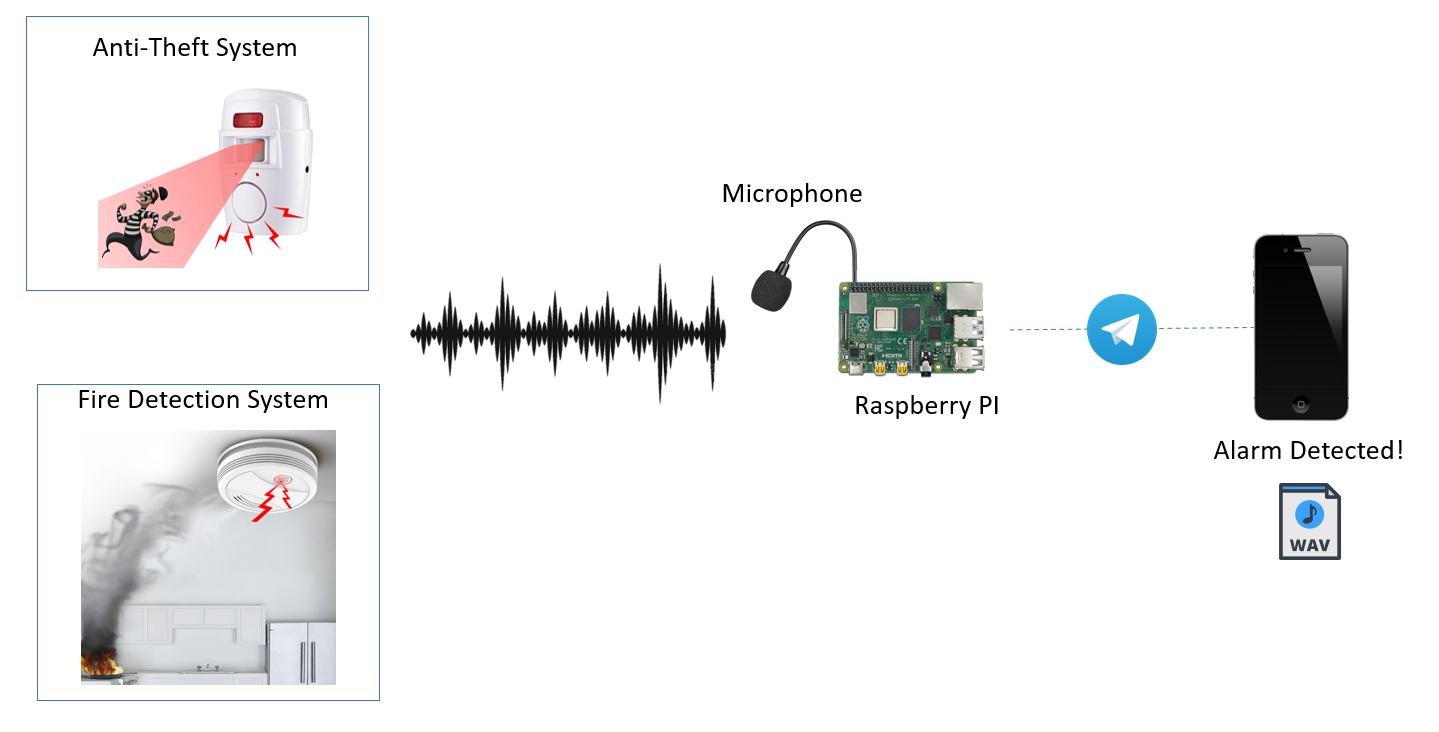
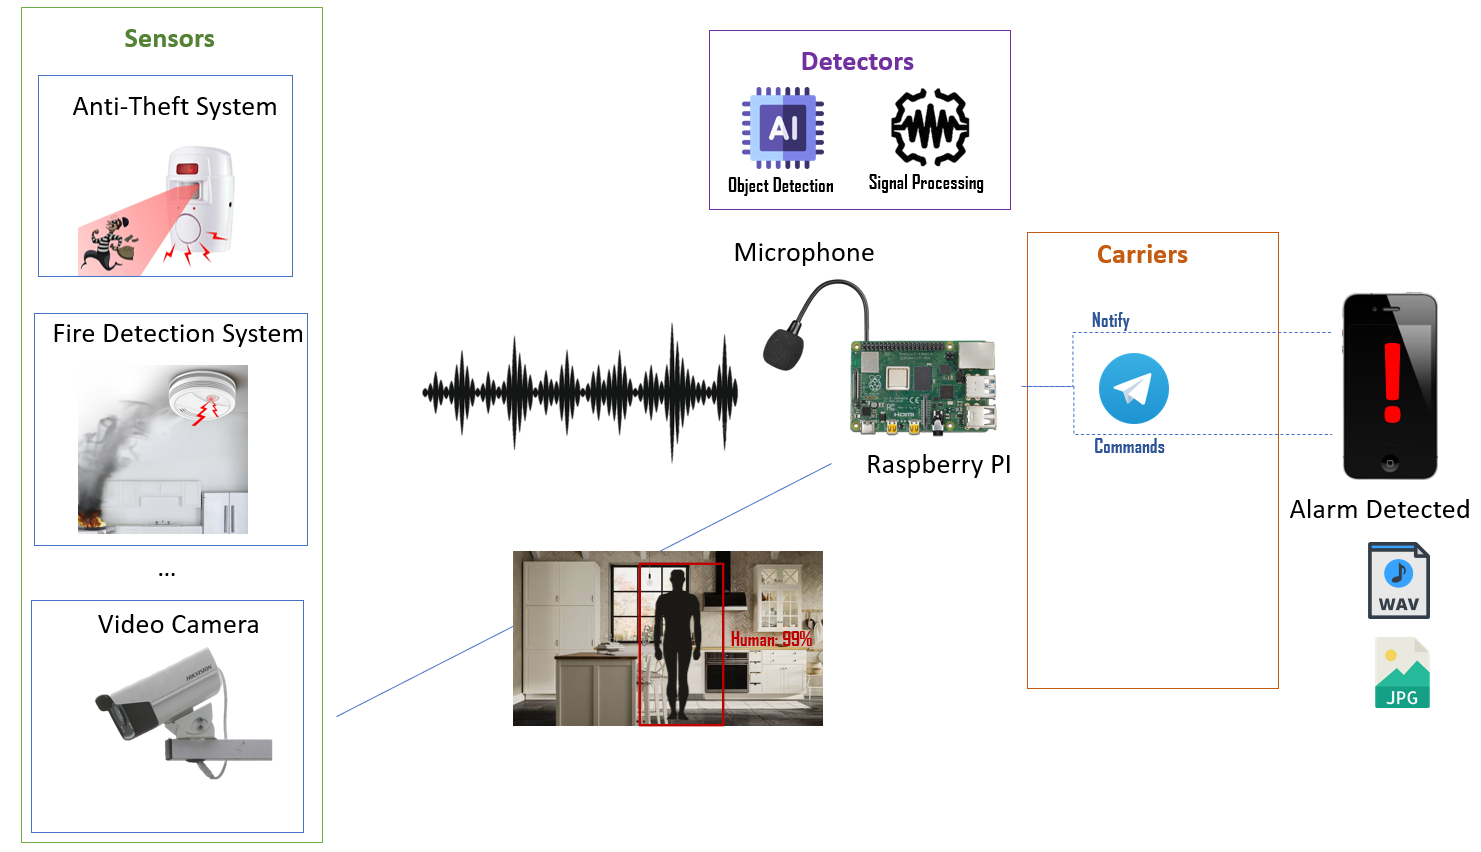
Major update

diff --git a/main.py b/main.py
@@ -1,17 +1,54 @@
-#import notifiers.telegram_notifier
 import time
 import logging
 from sensors.sensor_microphone import SensorMicrophone
-from notifiers.telegram_notifier import NotifierTelegram
+from sensors.sensor_camera import SensorCamera
+from carriers.telegram_carrier import CarrierTelegram
 from detectors.audiostats.audiostats import AudioStats
+from detectors.objdetection.objdetection import ObjectDetection
 import sys
 import config
 import os
 
-def doActions(notifiers):
+def doActions(carriers):
     """ Perform actions request by user on communication channels """
-    for n in notifiers:
-        n.doAction()
+    for c in carriers:
+        c.doAction()
+
+def alarmDetection(mic, carriers, logger):
+    # Record audio sample from microphone
+    mic = SensorMicrophone(logger)
+    mic.record(config.recording_seconds)
+    # Analyze audio for alarm sound
+    audiostats = AudioStats()
+    # Keep only high frequencies (alarm sound)
+    orig = mic.getEvidenceFile()
+    wavfile = audiostats.highPassFilter(orig)
+    dblevel = audiostats.getProperty(wavfile, "RMS lev dB")
+    if os.path.exists(wavfile):
+        os.remove(wavfile)
+    print(f"RMS dB level: {dblevel}")
+    if (dblevel > config.db_threshold):
+        logger.info(f"Alarm detected with db level {dblevel}")
+        # Notify and (eventually) attach evidences
+        for carrier in carriers:
+            if not carrier.notify(f"Alarm detected with db level {dblevel}", mic.getEvidenceFile()):
+                logger.error("Cannot send notification")
+            else:
+                logger.info(f"Notification sent using {carrier.name}")
+
+def humanDetection(camera, objdet, carriers, logger):
+    camera.takephoto()
+    for e in objdet.detect(camera.getEvidenceFile()):
+        conf = e["confidence"]
+        if (e["label"] == "person") and (conf > config.object_detection_threshold):
+            logger.info(f"Human detected with confidence {conf}")
+            # Notify and (eventually) attach evidences
+            for carrier in carriers:
+                if not carrier.notify(f"Human detected with confidence {conf}", camera.getEvidenceFile()):
+                    logger.error("Cannot send notification")
+                else:
+                    logger.info(f"Notification sent using {carrier.name}")
+
 
 def main():
     # Init logger
@@ -24,41 +61,26 @@ def main():
     logger = logging.getLogger("pyalarmguard")
     logger.addHandler(handler)
 
-    tg = NotifierTelegram(logger)
-    notifiers = [tg]
+    tg = CarrierTelegram(logger)
+    carriers = [tg]
 
     logger.info("Starting pyalarmguard")
 
+    cam = SensorCamera(logger)
     mic = SensorMicrophone(logger)
-    mic.record(config.recording_seconds)
+
+    objdet = ObjectDetection(logger)
     
     while(True):
         try:
             # Check if user requested some action to do
-            doActions(notifiers)
+            doActions(carriers)
+            if config.human_detection:
+                humanDetection(cam, objdet, carriers, logger)
             if config.alarm_detection:
-                # Record audio sample from microphone
-                mic = SensorMicrophone(logger)
-                mic.record(3)
-                # Analyze audio for alarm sound
-                audiostats = AudioStats()
-                # Keep only high frequencies (alarm sound)
-                orig = mic.getEvidenceFile()
-                wavfile = audiostats.highPassFilter(orig)
-                dblevel = audiostats.getProperty(wavfile, "RMS lev dB")
-                if os.path.exists(wavfile):
-                    os.remove(wavfile)
-                print(f"RMS dB level: {dblevel}")
-                if (dblevel > config.db_threshold):
-                    logger.info(f"Alarm detected with db level {dblevel}")
-                    # Notify and (eventually) attach evidences
-                    if not tg.notify(f"Alarm detected with db level {dblevel}", mic.getEvidenceFile()):
-                        logger.error("Cannot send notification")
-                    else:
-                        logger.info("Notification sent using telegram")
+                alarmDetection(mic, carriers, logger)
         except Exception as ex:
             logger.info(f"Exception occurred: {ex}")
-        time.sleep(1)
         
 
 

diff --git a/carriers/telegram_carrier.py b/carriers/telegram_carrier.py
@@ -4,42 +4,49 @@ import json
 import sys
 import os
 from sensors.sensor_microphone import SensorMicrophone
+from sensors.sensor_camera import SensorCamera
 import config
 
-class NotifierTelegram():
+class CarrierTelegram():
 
     def __init__(self, logger):
+        self.name = "telegram"
         self.logger = logger
         self.max_attempts = 5
         self.attempt_delay_sec = 10
         # Read configuration to retrieve API Key and chat id
-        with open(os.getcwd()+'/config.json') as config:
-            file_contents = config.read()
-        jconfig = json.loads(file_contents)
-        if ("telegram" not in jconfig["notifiers"]):
-            print("Telegram configuration not found in config.json, missing mandatory apiKey and chatId params")
+        if (config.tg_api_key == ""):
+            print("Telegram configuration not found in config, missing mandatory api key and chat id params")
             sys.exit(1)
-        jconfig = jconfig["notifiers"]["telegram"]
-        api_key=jconfig["apiKey"]
-        self.apiurl = f'https://api.telegram.org/bot{api_key}'
-        self.chat_id = jconfig["chatId"]
+
+        self.apiurl = f'https://api.telegram.org/bot{config.tg_api_key}'
+        self.chat_id = config.tg_chat_id
         self.last_msg_id = -1
         super().__init__()
     
     def notify(self, message, attachment=None):
         """
         Send notification, return true if succeeded.
-        Note: attachments are considered audio file at the moment!!
+        Note: attachments type is detected by extension
         """
         attempts = self.max_attempts
         while(attempts > 0):
             try:
-                response = requests.post(f"{self.apiurl}/sendMessage", json={'chat_id': self.chat_id, 'text': message})
+                if (message != None):
+                    response = requests.post(f"{self.apiurl}/sendMessage", json={'chat_id': self.chat_id, 'text': message})
+                
                 if (attachment != None):
                     with open(attachment, mode='rb') as file:
-                        voice_file = file.read()
-                    url = f"{self.apiurl}/sendVoice?chat_id={self.chat_id}"
-                    file = {'voice': ("record.wav", voice_file)}
+                        binfile = file.read()
+                    
+                    filetype = attachment[-3:]
+                    if (filetype == "wav"):
+                        url = f"{self.apiurl}/sendVoice?chat_id={self.chat_id}"
+                        file = {'voice': ("record.wav", binfile)}
+                    elif (filetype == "jpg"):
+                        url = f"{self.apiurl}/sendPhoto?chat_id={self.chat_id}"
+                        file = {'photo': binfile}
+
                     response = requests.post(url, files=file, timeout=3)
 
                 if (response.status_code == 200):              
@@ -81,11 +88,14 @@ class NotifierTelegram():
             self.notify(f"online, alarm detection = {config.alarm_detection} with threshold = {config.db_threshold}")
         elif (last_cmd == "/poweroff"):
             os.system("poweroff")
+        elif (last_cmd == "/getphoto"):
+            cam = SensorCamera(self.logger)
+            self.notify(None, cam.getEvidenceFile())
         elif ("/getaudio" in last_cmd):
             try:
                 mic = SensorMicrophone(self.logger)
                 mic.record(int(last_cmd.split(" ")[1]))
-                self.notify(f"mic recorded audio", mic.getEvidenceFile())
+                self.notify("mic recorded audio", mic.getEvidenceFile())
             except Exception as ex:
                 print(ex)
         elif ("/setdblevel" in last_cmd):

diff --git a/sensors/sensor_microphone.py b/sensors/sensor_microphone.py
@@ -3,6 +3,7 @@ import struct
 import math
 import pyaudio
 import os
+import config
 
 class SensorMicrophone:
 
@@ -18,45 +19,11 @@ class SensorMicrophone:
                 break
         if self.dev_index == -1:
             logger.error("Cannot find USB microphone")
-        self.wavfile = '/opt/pyalarmguard/record.wav'
+        self.wavfile = f'{config.data_directory}/record.wav'
         self.last_peak_dB = 0
     
     def getEvidenceFile(self):
         return self.wavfile
-
-    #def getPeakdB(self, wavfile):
-    #    """ Simple function to get peak dB in the wav file """
-    #    # Open the audio file
-    #    with wave.open(wavfile, 'r') as audio:
-    #        # Extract the raw audio data
-    #        raw_data = audio.readframes(audio.getnframes())
-#
-    #    # Convert the raw audio data to a list of integers
-    #    samples = struct.unpack('<{n}i'.format(n=audio.getnframes()), raw_data)
-#
-    #    # Find the peak sample
-    #    peak = max(samples)
-#
-    #    # Calculate the reference value based on the bit depth of the audio file
-    #    reference_value = 2**(audio.getsampwidth() * 8 - 1)
-#
-    #    # Calculate the peak value in dBFS, using the maximum possible sample value as the reference value
-    #    peak_dB = 20 * math.log10(peak / reference_value)
-#
-    #    return peak_dB
-#
-#
-    #def alarm(self):
-    #    """ Detect if audio from mic contains alarm sound """
-    #    #peak_dB = self.getPeakdB(self.wavfile)
-    #    #self.last_peak_dB = peak_dB
-    #    #if (peak_dB > self.threshold):
-    #    #    self.logger.info(f"Registered peak with dB {peak_dB} exceeding threshold ({self.threshold})")
-    #    #    return True
-    #    #return False
-#
-    #    
-    #    return self.wavfile
 
     def record(self, seconds):
         if os.path.exists(self.wavfile):

diff --git a/config_example.py b/config_example.py
@@ -1,0 +1,20 @@
+
+# App configuration file
+
+# GENERAL
+data_directory = "/opt/data"
+
+# SOUND
+db_threshold = -75 # dB level threshold, lower values increase sensitivity
+high_pass_filter_cutoff = "4k"
+alarm_detection = True # Enable/Disable audio analysis for alarm detection
+recording_seconds = 1 # Number of seconds to record for alarm detection
+
+# IMAGE
+human_detection = True
+object_detection_threshold = 0.5 # detection probability threshold
+
+# CARRIERS
+# TELEGRAM
+tg_api_key = ""
+tg_chat_id = 123

diff --git a/sensors/sensor_camera.py b/sensors/sensor_camera.py
@@ -1,0 +1,17 @@
+import subprocess
+import config
+
+class SensorCamera:
+
+    def __init__(self, logger):
+        self.logger = logger
+        self.imagefile = f'{config.data_directory}/photo.jpg'
+    
+    def getEvidenceFile(self):
+        return self.imagefile
+
+    def takephoto(self):
+        subprocess.run(['bash', 'sensors/takephoto.sh', self.imagefile])
+
+
+

diff --git a/README.md b/README.md
@@ -6,18 +6,20 @@ The current implementation can be summarized by the following image:
 ![system overview](system_overview.png)
 
 Imagine to have an audio alarm system (e.g. fire detection system, anti-theft system, etc.). This project has the goal to use a microphone to hear for alarm sounds. When an alarm sound is detected, the system will send to your smartphone a notification with eventually attached evidences (e.g. recorded audio).
+pyAlarmGuard can support also a camera featuring object/human detection powered by MobileNetSSD (really fast even on raspberry pi).
 
-The project has the `notifiers` directory that contains all available notification methods. Currently only Telegram messages are supported, but future implementations could include emails or other IM apps. Notifiers can also perform actions, even if their scope is to notify the user, they can eventually receive commands to exeute.
+The project has the `carriers` directory that contains all available notification methods. Currently only Telegram messages are supported, but future implementations could include emails or other IM apps. Carriers can also perform actions, even if their scope is to notify the user, they can eventually receive commands to execute.
 
-The `sensors` directory contains all the available sensors. Currently only audio recording through microphone are supported. Future implementations could include images or videos from camera, motion-detection systems, etc.
+The `sensors` directory contains all the available sensors. Audio recording through microphone and photos from camera are supported. Future implementations could include videos from camera, motion-detection systems, etc.
 
-The `detectors` directory contains tools and algorithms to perform several analysis, currently only alarm detection is implemented.
+The `detectors` directory contains tools and algorithms to perform several analysis, currently only alarm detection and human detection are implemented.
 
 The project aims to provide a general structure easy to customize, in order to implement your home security system.
 
-Before to run the project you need to create a `config.json` file in the root project directory containing the configuration for Telegram (apiKey and chatId).
 
 # Installation
 
 Install on the system the package `sox`
 Then run `pip install -r requirements.txt`
+
+Before to run the project you need to rename `config_example.py` into `config.py` in the root project directory adding the configuration for Telegram (api key and chat id).
